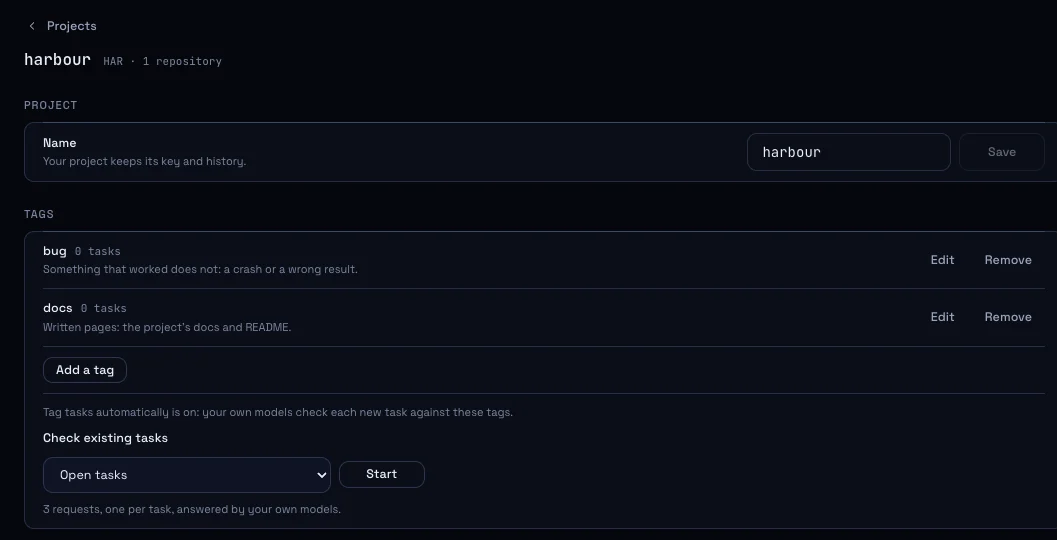
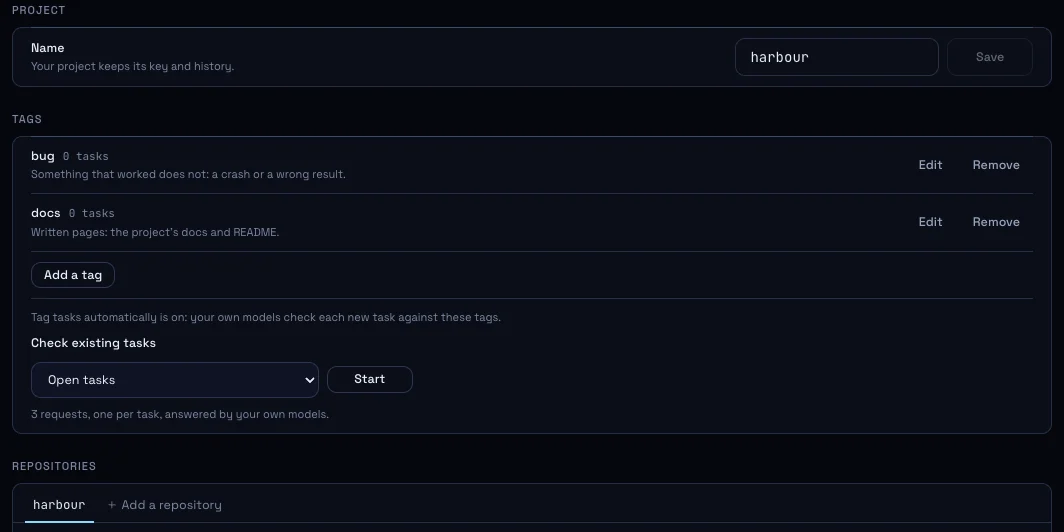
fix(tasks): keep automatic tagging to new words and new tasks
Carried decision-model tags from an emptied project now keep a revision
no description has, so only Check existing tasks asks them again. An
answer about words or a project the task no longer has is dropped and
the task is asked about what it holds now. Automatic tagging moves its
start mark up to the newest task whenever nothing is owed, so each read
seeks only the newest tasks. Adds the contract revision for the new
action line, retakes the hero pictures cropped to the Tags box, and
names every writer of task tags in the docs.

diff --git a/src/core/decisions/taskTagger.test.ts b/src/core/decisions/taskTagger.test.ts
@@ -197,6 +197,74 @@ describe("automatic tagging", () => {
     }
   });
 
+  it("asks again about a task whose title changed while its request waited, recording nothing about the old words", async () => {
+    const t = tagged((title, tag) =>
+      title === "Old words" ? "hang" : tag === "docs" ? "yes" : "no",
+    );
+    try {
+      t.f.tick(10);
+      t.f.tasks.create({ id: "retold", title: "Old words", prompt: "", repoId: "r1" });
+      const pending = t.tagger.idle();
+      t.f.tasks.updateFields("retold", { title: "Write the setup guide" }, "firstmate");
+      t.release();
+      await pending;
+      await t.tagger.idle();
+      expect(t.asked.map((ask) => ask.facts.title)).toEqual(["Old words", "Write the setup guide"]);
+      expect(t.tagsOf("retold")).toEqual(["docs:decision"]);
+    } finally {
+      t.done();
+    }
+  });
+
+  it("leaves tags carried from an emptied project to Check existing tasks, never asking them on its own", async () => {
+    const t = tagged((_, tag) => (tag === "bug" ? "yes" : "no"));
+    try {
+      await t.file("crash", "The app crashes");
+      expect(t.asked).toHaveLength(1);
+      seedProject(t.f.db, { id: "r2", name: "website", path: "/fleet/website", addedAt: 2 });
+      t.f.tick(10);
+      t.f.tasks.create({ id: "site", title: "Footer", prompt: "", repoId: "r2" });
+      const website = t.f.tasks.get("site")?.projectId as string;
+      t.f.tick(10);
+      t.f.tasks.changeProjectTags({
+        op: "add",
+        projectId: website,
+        name: "Bug",
+        description: "Something on the site is broken.",
+      });
+      t.f.tasks.joinWithRepositories(
+        { sources: [{ projectId: t.projectId, whole: true }], repos: [{ id: "r1", name: "app" }] },
+        "captain",
+        () => ({ id: website, name: "website" }),
+      );
+      await t.tagger.idle();
+      expect(t.asked.map((ask) => [ask.taskId, ask.tags])).toEqual([["crash", ["bug", "docs"]]]);
+      expect(t.tagsOf("crash")).toEqual(["Bug:decision"]);
+      t.tagger.change({ op: "start", projectId: website, reach: "all" });
+      await t.tagger.idle();
+      // Bug lands on the website's own tag, so its judgment goes; docs keeps its description and its judgment.
+      expect(t.asked.filter((ask) => ask.taskId === "crash").map((ask) => ask.tags)).toEqual([
+        ["bug", "docs"],
+        ["Bug"],
+      ]);
+    } finally {
+      t.done();
+    }
+  });
+
+  it("reads only tasks filed since the newest one it found judged", async () => {
+    const t = tagged(() => "no");
+    try {
+      await t.file("first", "First");
+      await t.file("second", "Second");
+      expect(t.asked).toHaveLength(2);
+      const newest = t.f.tasks.get("second")?.createdAt as number;
+      expect(t.saved.since).toBe(newest - 1);
+    } finally {
+      t.done();
+    }
+  });
+
   it("leaves a task unchecked when the model gives no answer, and asks again only after an hour", async () => {
     let reply: Reply = "fail";
     const t = tagged(() => reply);

diff --git a/src/core/decisions/taskTagger.ts b/src/core/decisions/taskTagger.ts
@@ -150,7 +150,17 @@ export class TaskTagger {
     const now = this.options.now();
     for (const [taskId, at] of this.failedAuto) if (at <= now) this.failedAuto.delete(taskId);
     const since = this.options.settings.getTagAutoSince() ?? now;
-    return this.options.work.nextAuto(since, [...this.failedAuto.keys()]);
+    const next = this.options.work.nextAuto(since, [...this.failedAuto.keys()]);
+    // With nothing owed and no task waiting out a retry, every task filed
+    // so far is judged, so the next read seeks only tasks filed from here
+    // and its cost stays with the newest tasks, not the whole record. One
+    // millisecond short of the newest task: a task filed later in that same
+    // millisecond is still read.
+    if (!next && this.failedAuto.size === 0) {
+      const newest = this.options.work.newestFiled();
+      if (newest !== null && newest - 1 > since) this.options.settings.setTagAutoSince(newest - 1);
+    }
+    return next;
   }
 
   private nextCheck(): TagWorkItem | undefined {
@@ -182,10 +192,11 @@ export class TaskTagger {
     const state = tagState({
       project: this.options.tasks.projects.get(task.projectId)?.name,
       title: task.title,
-      goal: task.goal ?? task.intent?.goal ?? "",
+      goal: goalOf(task),
       userWords: task.intent?.userWords,
       parentTitle: parent?.title,
     });
+    const asked = wordsOf(task);
     const abort = new AbortController();
     this.controller = { abort, check };
     let answers: Record<string, DecisionAnswer>;
@@ -200,6 +211,11 @@ export class TaskTagger {
       this.controller = undefined;
     }
     if (abort.signal.aborted || this.stopped) return;
+    // Answers about words or a project the task no longer has are dropped
+    // unrecorded and not counted as a failure: the record still owes the
+    // task, so the next read asks about what it holds now.
+    const current = this.options.tasks.get(task.id);
+    if (!current || wordsOf(current) !== asked) return;
     const judgments: TagJudgment[] = [];
     let missed = false;
     for (const [key, name] of Object.entries(ids)) {
@@ -346,6 +362,17 @@ function scopeOf(saved: SavedTagCheck): TagCheckScope {
  * The app's one tagger: it hears every committed task change, every move
  * of the use's switch, and the ticker's minute for failed requests' retry.
  */
+type TaskRecord = NonNullable<ReturnType<TaskService["get"]>>;
+
+function goalOf(task: TaskRecord): string {
+  return task.goal ?? task.intent?.goal ?? "";
+}
+
+/** What a task's answers were about: its project and its words. */
+function wordsOf(task: TaskRecord): string {
+  return JSON.stringify([task.projectId, task.title, goalOf(task)]);
+}
+
 export function startTaskTagger(input: {
   db: AppDatabase;
   tasks: TaskService;

diff --git a/src/core/storage/tagWork.ts b/src/core/storage/tagWork.ts
@@ -60,11 +60,11 @@ export class TagWork {
 
   /**
    * The newest task automatic tagging owes a request: a tag of its project
-   * with no row, on a task filed after `since`, the moment automatic tagging
-   * last began asking, and no earlier than the tag; or a decision-model row
-   * with no revision. Tasks in `skip` wait out a failed request. Each half
-   * seeks its rows by an index (`tasks_created_at`, `task_tags_unjudged`),
-   * so a long record is never walked.
+   * with no row, on a task filed after `since` and no earlier than the tag;
+   * or a decision-model row with no revision. Tasks in `skip` wait out a
+   * failed request. Each half seeks its rows by an index (`tasks_created_at`,
+   * `task_tags_unjudged`), and `TaskTagger` moves `since` up to the newest
+   * task whenever nothing is owed, so a long record is never walked.
    */
   nextAuto(since: number, skip: readonly string[]): TagWorkItem | undefined {
     if (!this.exists()) return undefined;
@@ -87,6 +87,15 @@ export class TagWork {
       )
       .all({ since, skip: JSON.stringify(skip) }) as { task_id: string; tag_id: string }[];
     return firstItem(rows);
+  }
+
+  /** When the newest task was filed, read from `tasks_created_at` alone; null with no tasks. */
+  newestFiled(): number | null {
+    const row = this.db
+      // i18n-exempt: SQL, never shown to a person
+      .prepare("SELECT MAX(created_at) AS at FROM tasks")
+      .get() as { at: number | null };
+    return row.at;
   }
 
   /** The newest task a check still owes a request, outside `skip`. */

diff --git a/src/core/tasks/taskTags.ts b/src/core/tasks/taskTags.ts
@@ -6,6 +6,7 @@ import {
   type TagSetter,
 } from "@shared/tags";
 import type { TaskEventActor } from "../storage/taskEventStore";
+import { STALE_JUDGMENT } from "../storage/taskTagStore";
 import type { TaskWriter } from "./taskWriter";
 
 /**
@@ -268,8 +269,9 @@ export function changeProjectTags(
  * rows it had, on or off, with who set each. A row keeps the description
  * revision it was judged at only when that description is the one now on
  * its tag: a row landing on a tag the other project already had, or one
- * judged at an older description of its own tag, loses it, so a later check
- * asks again. The emptied project keeps no tags. Inside the caller's write,
+ * judged at an older description of its own tag, keeps `STALE_JUDGMENT`
+ * instead, so Check existing tasks asks it again and automatic tagging,
+ * which asks rows with no revision, does not. The emptied project keeps no tags. Inside the caller's write,
  * after the tasks moved.
  */
 export function carryProjectTags(
@@ -295,10 +297,11 @@ export function carryProjectTags(
     for (const row of writer.store.tags.rowsOf(taskId).values()) {
       const landed = onto.get(row.tagId);
       if (!landed) continue;
+      const kept = row.revision === landed.judged ? landed.revision : null;
       writer.store.tags.set({
         ...row,
         tagId: landed.id,
-        revision: row.revision === landed.judged ? landed.revision : null,
+        revision: row.by === "decision" ? (kept ?? STALE_JUDGMENT) : row.revision,
       });
     }
   for (const tag of from) {

diff --git a/src/core/tasks/taskTags.test.ts b/src/core/tasks/taskTags.test.ts
@@ -1,7 +1,7 @@
 import { projectTagChangeSchema } from "@shared/tags";
 import { describe, expect, it } from "vitest";
 import { taskProtocolFixture } from "../../../tests/helpers/taskProtocol";
-import { TaskTagStore } from "../storage/taskTagStore";
+import { STALE_JUDGMENT, TaskTagStore } from "../storage/taskTagStore";
 import { seedProject } from "../workspace/seedProject";
 
 /**
@@ -271,7 +271,7 @@ describe("the tags a task carries", () => {
       ).toEqual([
         [true, "captain", null],
         [false, "decision", 1],
-        [true, "decision", null],
+        [true, "decision", STALE_JUDGMENT],
       ]);
       expect(f.fresh().projects.find((project) => project.id === projectId)?.tags).toBeUndefined();
     } finally {

diff --git a/src/core/storage/taskTagStore.ts b/src/core/storage/taskTagStore.ts
@@ -10,6 +10,13 @@ import { prepared } from "./statements";
  * task's own project.
  */
 
+/**
+ * The revision of a decision-model row whose description is gone, such as
+ * one carried onto another project's tag: revisions start at 1, so no
+ * description matches it and only Check existing tasks asks it again.
+ */
+export const STALE_JUDGMENT = 0;
+
 export type TaskTagRow = {
   taskId: string;
   tagId: string;

diff --git a/docs/task-tags.md b/docs/task-tags.md
@@ -36,7 +36,7 @@ A project's view (`projectViewSchema`, `src/shared/tasks.ts`) carries its tags i
 ## The tags a task carries
 
 `task_tags` holds one row per task and tag: on or off, who set it, the tag's description revision the decision model judged it at, and when.
-`TaskService` is its one writer, through `setTaskTags` and `changeProjectTags` (`src/core/tasks/taskTags.ts`); `TaskTagStore` (`src/core/storage/taskTagStore.ts`) reads and writes the rows for it.
+`TaskService` is its one writer: through `setTaskTags`, `changeProjectTags` and `judgeTaskTags` (`src/core/tasks/taskTags.ts`), and through a task's new title or goal (`forgetJudgments`) and a single task's move (`owe`); `TaskTagStore` (`src/core/storage/taskTagStore.ts`) reads and writes the rows for it.
 
 Who set a tag is one of three setters (`tagSetterSchema`):
 
@@ -54,7 +54,7 @@ Moving a task to another project deletes its tag rows, on and off, in the same w
 A task moved on its own owes automatic tagging its new project's tags: the move writes an off row of the decision model's with no revision for each, which automatic tagging asks.
 Tasks that leave with their repositories owe nothing; Check existing tasks reaches them.
 A project that empties into another, its repositories all moved, brings its tags along (`carryProjectTags`, `src/core/tasks/taskTags.ts`): each lands on the other project's tag of the same name in any case, or joins its list with its description, and every task keeps its rows, on and off, with who set each.
-A row keeps the description revision it was judged at only when that description is the one now on its tag: a row landing on a tag the other project already had, or one judged at an older description of its own tag, loses it.
+A row keeps the description revision it was judged at only when that description is the one now on its tag: a row of the decision model's landing on a tag the other project already had, or judged at an older description of its own tag, takes revision 0 (`STALE_JUDGMENT`), which no description has, so Check existing tasks asks it again and automatic tagging does not.
 The emptied project keeps no tags.
 A purged task's rows go with it.
 
@@ -106,6 +106,8 @@ What is owed is read from the record each time, never kept in a list (`TagWork`,
 - a row the decision model set with no revision, which a task's new title or goal leaves (`TaskTagStore.forgetJudgments`), as does a single task's move.
 
 Automatic tagging began asking when this version first started with the use on, and begins again whenever the use is turned back on (the `tag-auto-since` settings row), so tasks filed while it was off are left to Check existing tasks.
+Each time it finds nothing owed and no task waiting out a retry, it moves that row up to the newest task filed, so each read seeks only the newest tasks.
+An answer that arrives after its task's project, title or goal changed is dropped unrecorded, and the task is asked again about what it holds now.
 A project with no tags owes nothing and is never asked about.
 
 `yes` turns the tag on, `no` leaves it off, and `unsure` keeps what the row held; each is kept with the description revision it read, so nothing is asked twice about the same task, tag and description.

diff --git a/docs/saved-data-compatibility.md b/docs/saved-data-compatibility.md
@@ -601,5 +601,5 @@ An older build refuses the profile, because its migration history names a migrat
 An export this build writes carries no tags, so a task imports with none.
 Dropping both tables and removing the migration's history row undoes it; a task's timeline lines about its tags stay as ordinary notes.
 
-Automatic tagging adds no table and no migration: it keeps the moment it began asking in the `tag-auto-since` settings row and the check under way in the `tag-check` row, and writes ordinary `task_tags` rows (`docs/task-tags.md`, "Automatic tagging").
+Automatic tagging adds no table and no migration: it keeps where its reads of new tasks start in the `tag-auto-since` settings row and the check under way in the `tag-check` row, and writes ordinary `task_tags` rows, a carried judgment with revision 0, which an older side reads as a description no tag has (`docs/task-tags.md`, "Automatic tagging").
 Its two query indexes, `tasks_created_at` and `task_tags_unjudged`, are created at the start like the other optional query indexes, and an older build ignores them and both rows.

diff --git a/src/core/prompts/contract-revisions/task-tag-check.md b/src/core/prompts/contract-revisions/task-tag-check.md
@@ -1,0 +1,6 @@
+# Checking tasks for tags
+
+The third piece of an approved plan for tags on tasks: the decision model tags each new task in a project with tags on its own, and Check existing tasks backfills a project's older tasks.
+The new project-tag-check action line owns starting and stopping a check on the captain's ask: its words name the reaches (open, open and done in the last 7 days, every task), that a check spends one decision model request per task, that stop keeps every answer so far and that one check runs at a time; its current value lists each project with tags, how many requests each reach would make, who answers and the check under way.
+The first mate is told nothing about automatic tagging itself: the host runs it, and tags a person or the first mate set are never changed by it.
+The line adds about 90 tokens where action lines are served, and its name joins app_change's action list.
